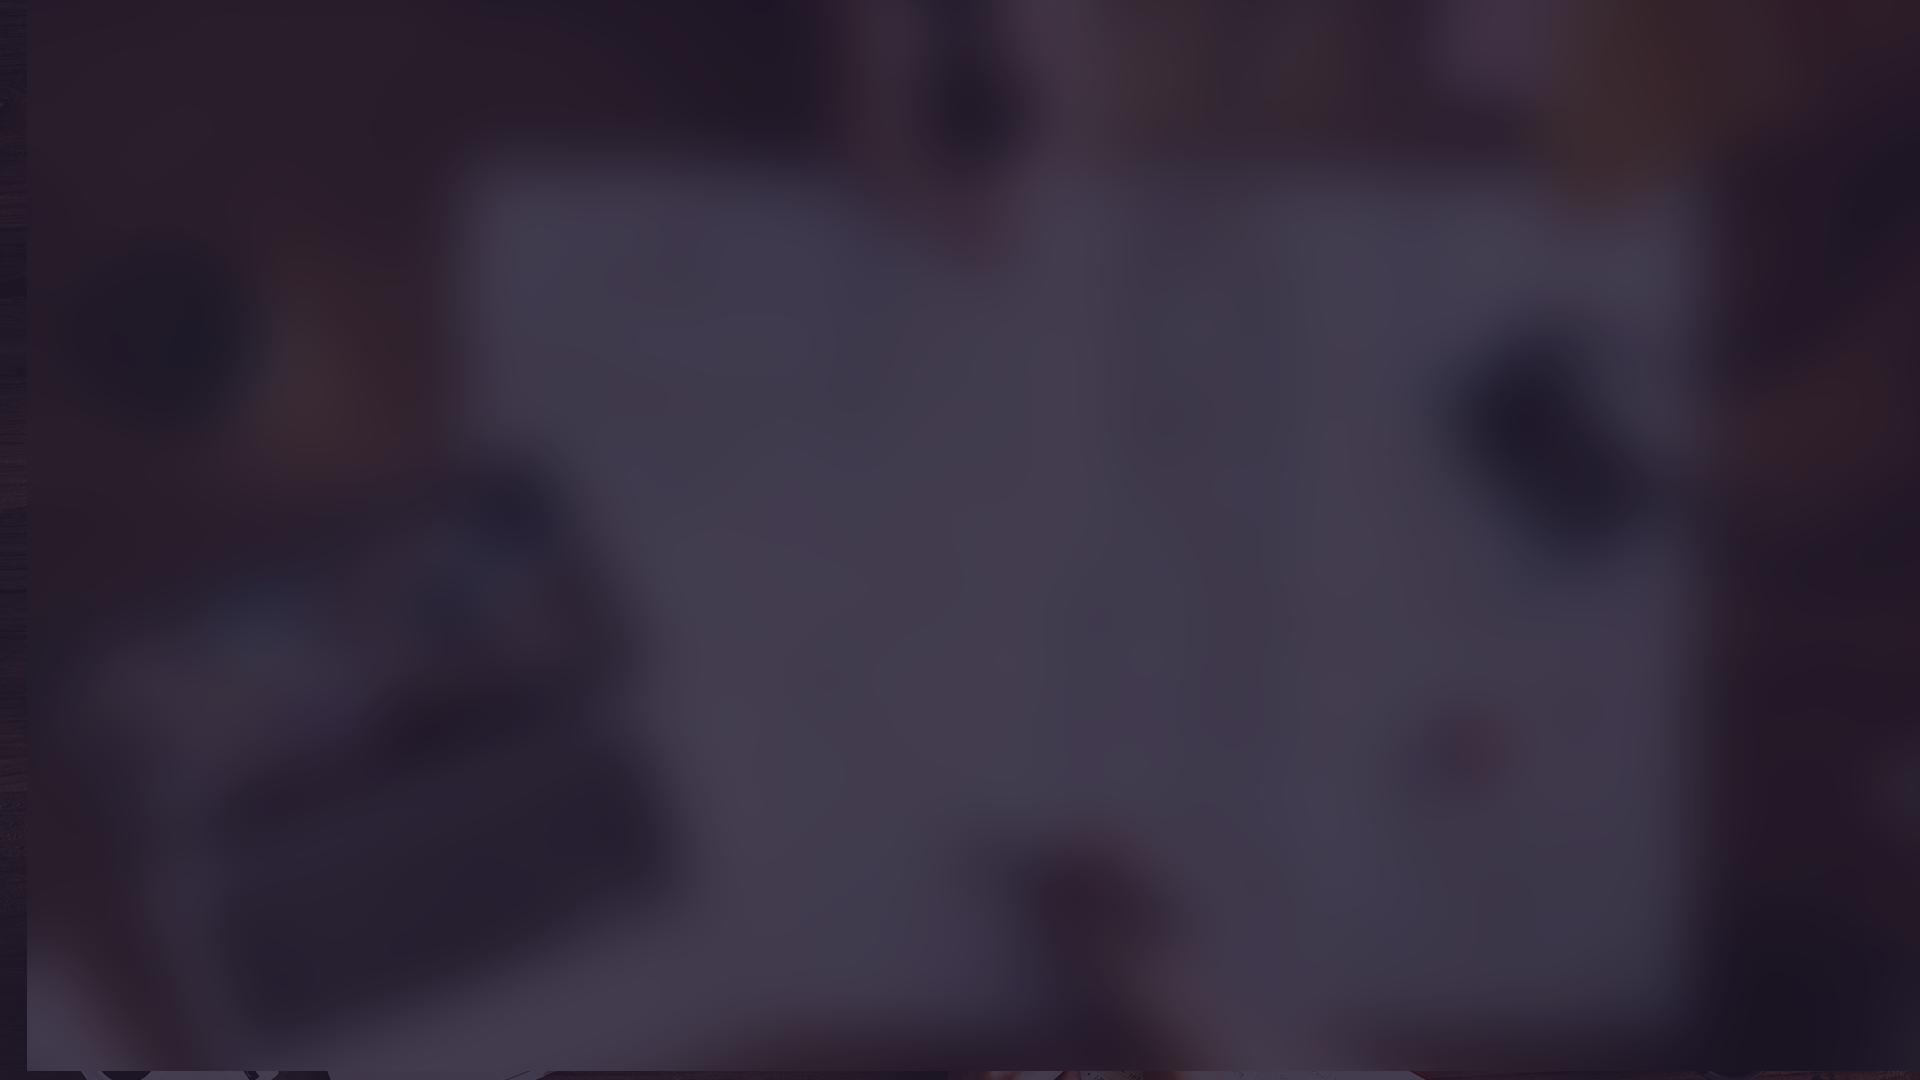
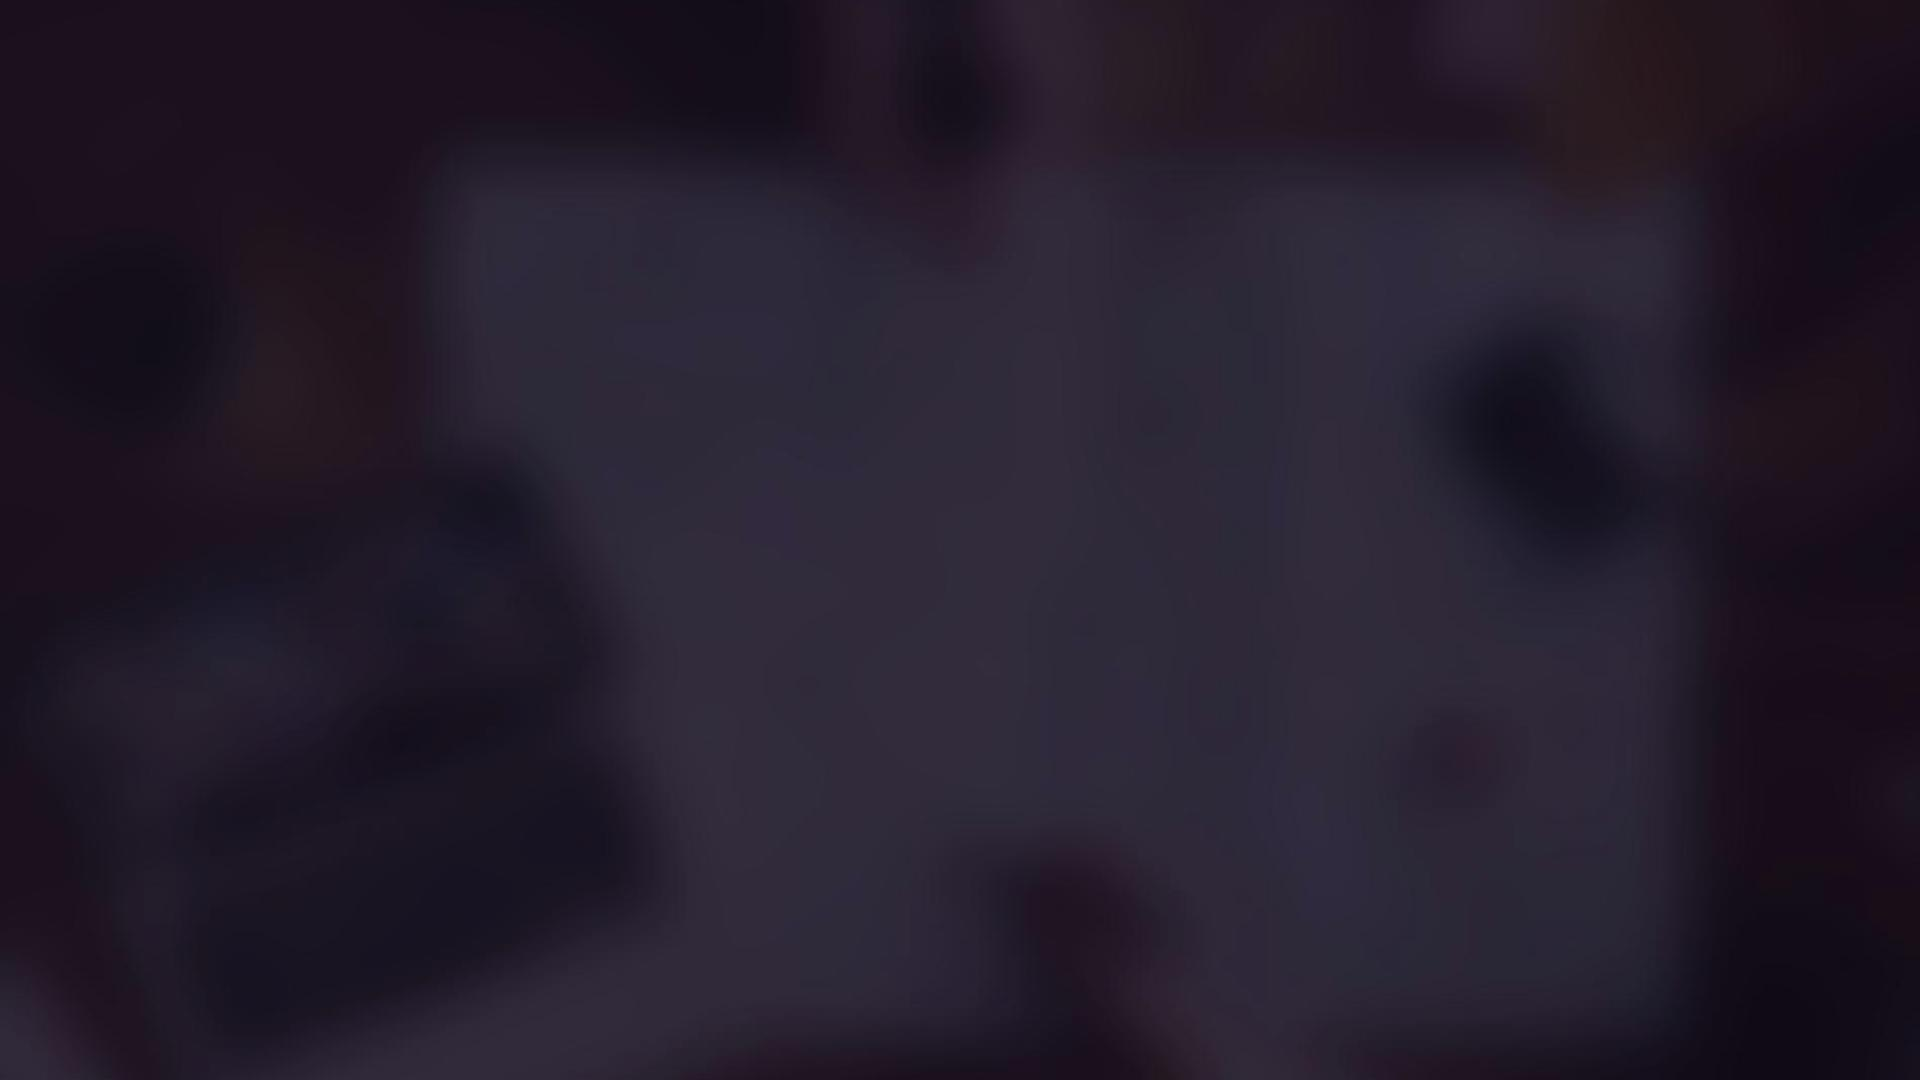
add jquery for check scroll-x events at scrap-demo

diff --git a/src/pages/scrap-demo/Scrap-Demo.js b/src/pages/scrap-demo/Scrap-Demo.js
@@ -6,8 +6,124 @@ import img3 from '../../assets/images/box-dummy-03.jpg';
 import img4 from '../../assets/images/box-dummy-04.jpg';
 import img5 from '../../assets/images/box-dummy-05.jpg';
 import img6 from '../../assets/images/box-dummy-06.jpg';
+import $ from 'jquery';
 
 export default class ScrapDemo extends Component {
+  // Check Scroll Events using Jquery
+  componentDidMount() {
+  // Settings.
+    var settings = {
+      // Scroll wheel.
+        scrollWheel: {
+          // If true, enables scrolling via the scroll wheel.
+            enabled: true,
+          // Sets the scroll wheel factor. (Ideally) a value between 0 and 1 (lower = slower scroll, higher = faster scroll).
+            factor: 1
+        },
+    };
+        // Vars.
+      var $window = $(window),
+          $document = $('#scrap-demo'),
+          $body = $('#scrap-demo'),
+          $html = $('html'),
+          $bodyHtml = $('body,html'),
+          $wrapper = $('#wrapper');
+
+      // Based on code by @miorel + @pieterv of Facebook (thanks guys :)
+      // github.com/facebook/fixed-data-table/blob/master/src/vendor_upstream/dom/normalizeWheel.js
+      var normalizeWheel = function(event) {
+
+        var pixelStep = 10,
+            lineHeight = 40,
+            pageHeight = 800,
+            sX = 0,
+            sY = 0,
+            pX = 0,
+            pY = 0;
+
+          // Legacy.
+            if ('detail' in event)
+              sY = event.detail;
+            else if ('wheelDelta' in event)
+              sY = event.wheelDelta / -120;
+            else if ('wheelDeltaY' in event)
+              sY = event.wheelDeltaY / -120;
+
+            if ('wheelDeltaX' in event)
+              sX = event.wheelDeltaX / -120;
+
+          // Side scrolling on FF with DOMMouseScroll.
+            if ('axis' in event
+            &&  event.axis === event.HORIZONTAL_AXIS) {
+              sX = sY;
+              sY = 0;
+            }
+
+          // Calculate.
+            pX = sX * pixelStep;
+            pY = sY * pixelStep;
+
+            if ('deltaY' in event)
+              pY = event.deltaY;
+
+            if ('deltaX' in event)
+              pX = event.deltaX;
+
+            if ((pX || pY)
+            &&  event.deltaMode) {
+
+              if (event.deltaMode == 1) {
+                pX *= lineHeight;
+                pY *= lineHeight;
+              }
+              else {
+                pX *= pageHeight;
+                pY *= pageHeight;
+              }
+
+            }
+
+          // Fallback if spin cannot be determined.
+            if (pX && !sX)
+              sX = (pX < 1) ? -1 : 1;
+
+            if (pY && !sY)
+              sY = (pY < 1) ? -1 : 1;
+
+          // Return.
+            return {
+              spinX: sX,
+              spinY: sY,
+              pixelX: pX,
+              pixelY: pY
+            };
+
+        };
+
+      // Wheel event.
+        $body.on('wheel', function(event) {
+
+          // Disable on <=small.
+            // if (skel.breakpoint('small').active)
+            //   return;
+
+          // Prevent default.
+            event.preventDefault();
+            event.stopPropagation();
+
+          // Stop link scroll.
+            $bodyHtml.stop();
+
+          // Calculate delta, direction.
+            var n = normalizeWheel(event.originalEvent),
+              x = (n.pixelX != 0 ? n.pixelX : n.pixelY),
+              delta = Math.min(Math.abs(x), 150) * settings.scrollWheel.factor,
+              direction = x > 0 ? 1 : -1;
+
+          // Scroll page.
+            $document.scrollLeft($document.scrollLeft() + (delta * direction));
+        });
+  }
   render() {
     return (
       <div id="scrap-demo">
@@ -90,3 +206,4 @@ export default class ScrapDemo extends Component {
     );
   }
 }
+

diff --git a/src/assets/sass/components/pages/_scrap-page.scss b/src/assets/sass/components/pages/_scrap-page.scss
@@ -9,18 +9,27 @@
 
 // Sacrap Demo
 #scrap-demo {
-	// height: 100vh;
 	min-height: 100vh;
 	position: relative;
-	// display: flex;
-	// flex-direction: column;
-	// align-items: stretch;
-	// justify-content: space-between;
-	background: url('assets/images/03_scrap_01_bg.jpg') no-repeat center center;
-	-webkit-background-size: cover;
-	-moz-background-size: cover;
-	-o-background-size: cover;
-	background-size: cover;
+	overflow-x: hidden;
+	&:after {
+		-moz-pointer-events: none;
+		-webkit-pointer-events: none;
+		-ms-pointer-events: none;
+		pointer-events: none;
+		content: '';
+		display: block;
+		position: fixed;
+		top: 0;
+		left: 0;
+		width: 100%;
+		height: 100%;
+		z-index: -1;
+		background-attachment: fixed;
+		background-image: url('assets/images/03_scrap_01_bg.jpg');
+		background-repeat: repeat, repeat-x;
+		background-size: 1920px 1080px, cover;
+	}
 
 	.scrap-wrapper {
 		position: absolute;

diff --git a/src/App.css b/src/App.css
@@ -2952,11 +2952,24 @@ button,
 #scrap-demo {
   min-height: 100vh;
   position: relative;
-  background: url("assets/images/03_scrap_01_bg.jpg") no-repeat center center;
-  -webkit-background-size: cover;
-  -moz-background-size: cover;
-  -o-background-size: cover;
-  background-size: cover; }
+  overflow-x: hidden; }
+  #scrap-demo:after {
+    -moz-pointer-events: none;
+    -webkit-pointer-events: none;
+    -ms-pointer-events: none;
+    pointer-events: none;
+    content: '';
+    display: block;
+    position: fixed;
+    top: 0;
+    left: 0;
+    width: 100%;
+    height: 100%;
+    z-index: -1;
+    background-attachment: fixed;
+    background-image: url("assets/images/03_scrap_01_bg.jpg");
+    background-repeat: repeat, repeat-x;
+    background-size: 1920px 1080px, cover; }
   #scrap-demo .scrap-wrapper {
     position: absolute;
     top: 50%;
